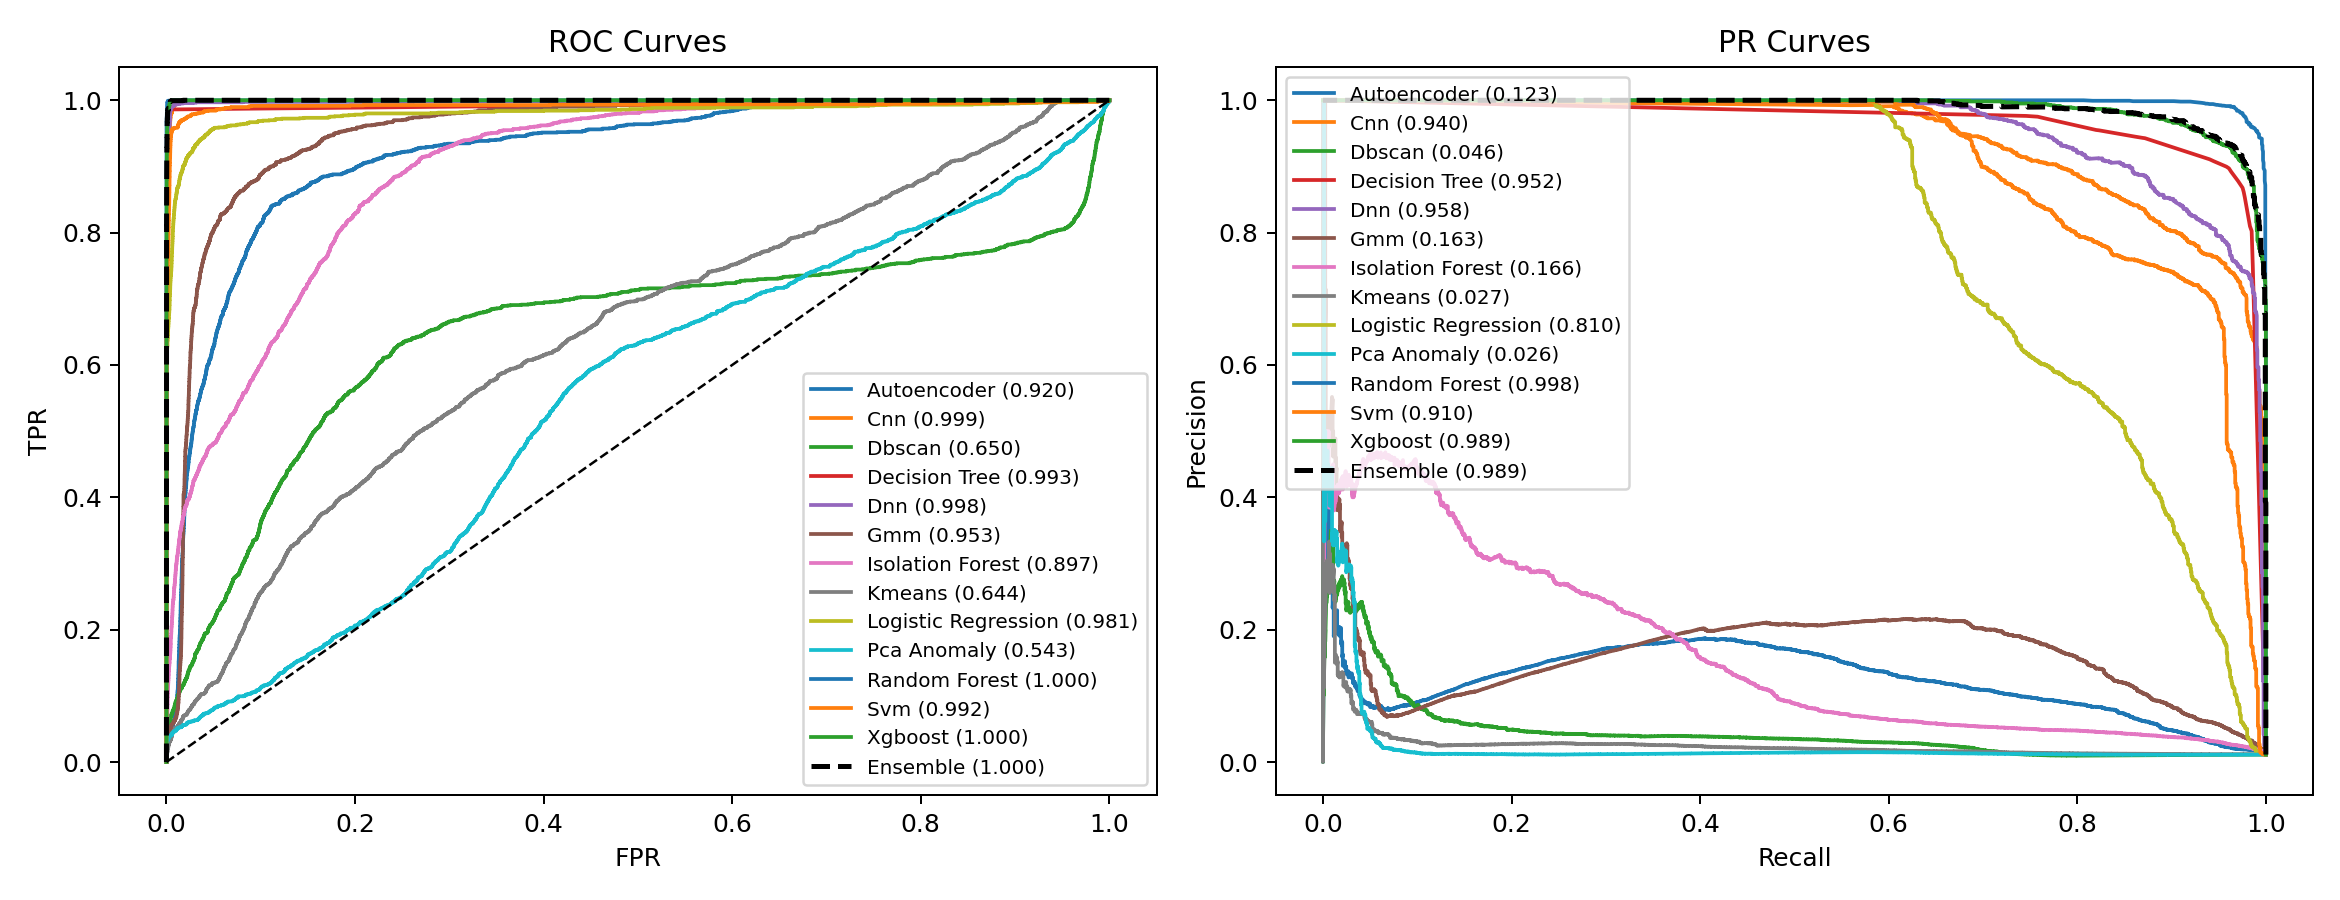
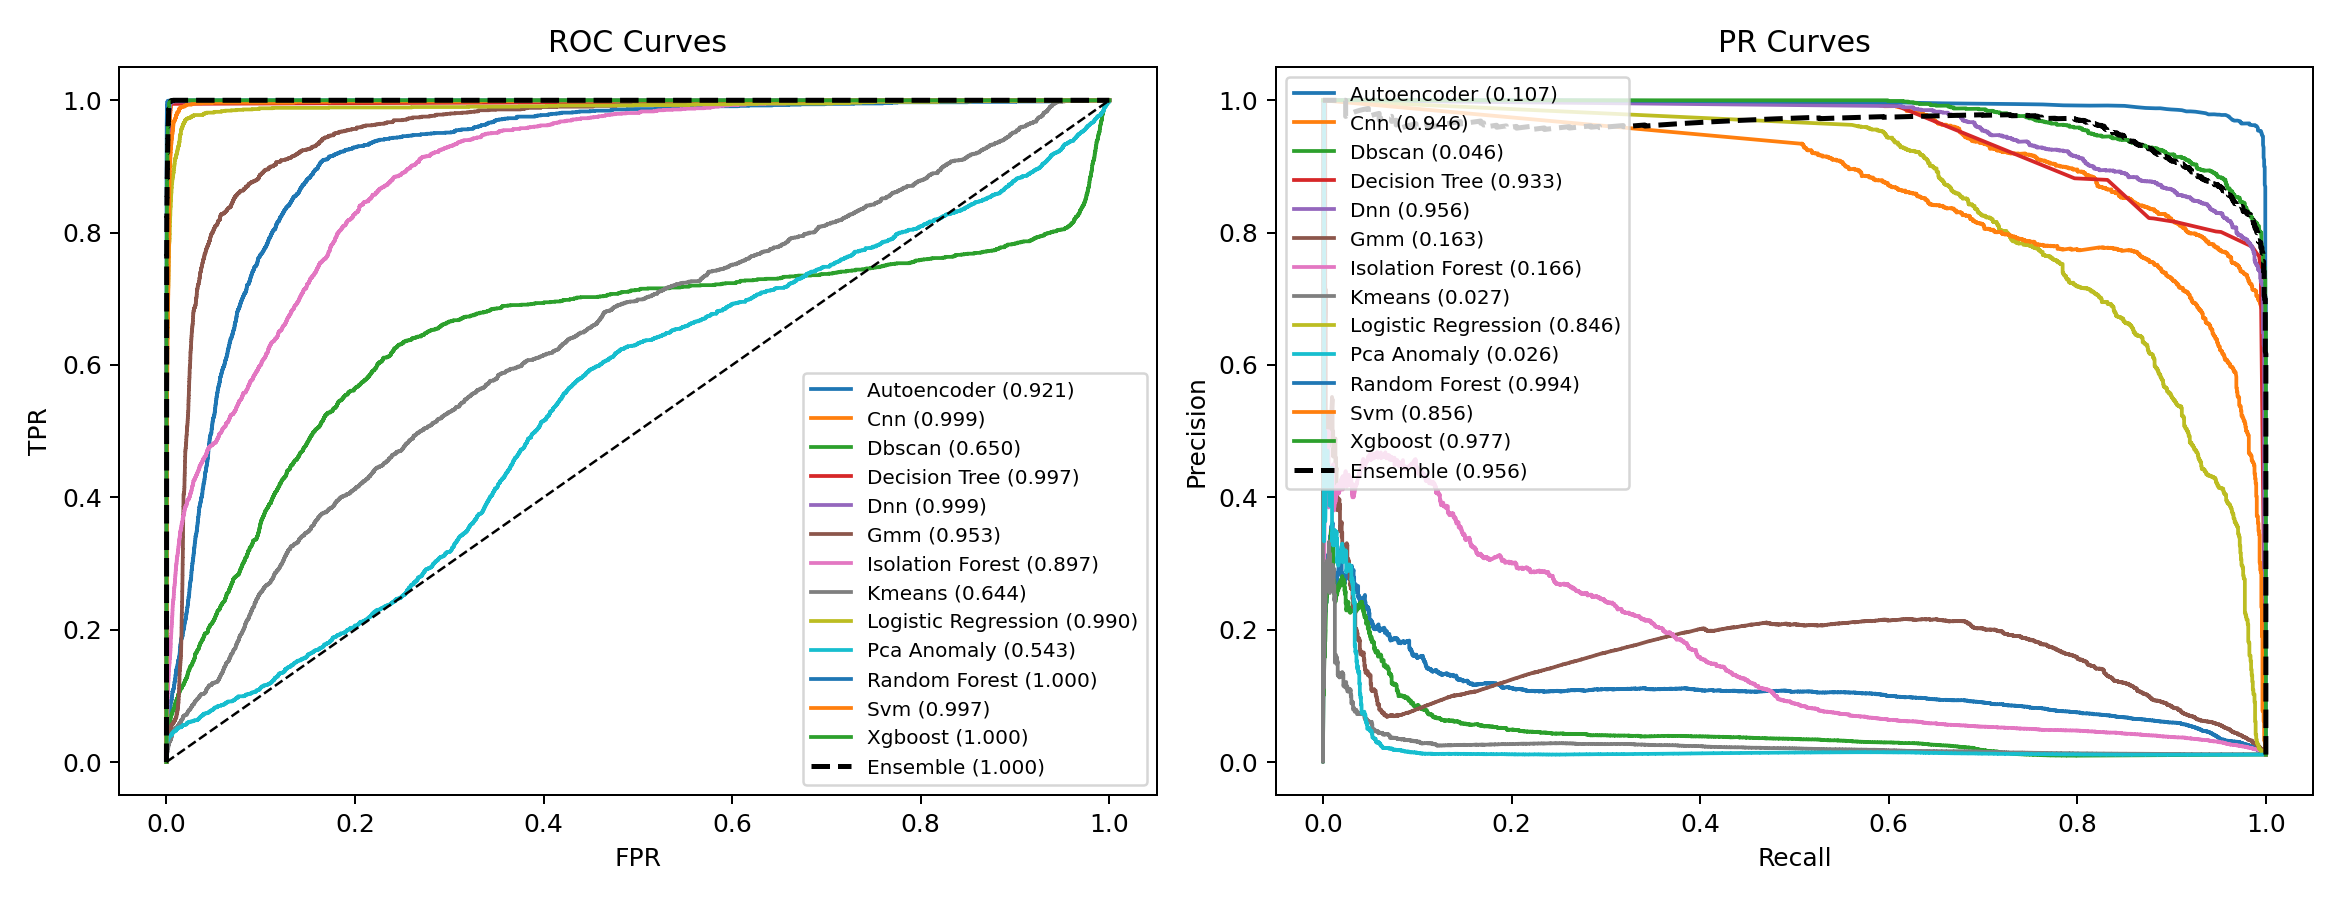
plots

diff --git a/Pipeline/model_comparison_report.html b/Pipeline/model_comparison_report.html
@@ -8,7 +8,7 @@ h1,h2{color:#2c3e50}
 img{max-width:100%}</style></head><body>
 <h1>Fraud Detection Ensemble Report</h1>
 <p><b>Input:</b> enhanced_financial_data.csv (147782 records)</p>
-<p><b>Fraud flagged:</b> 1084 (0.73%)</p>
+<p><b>Fraud flagged:</b> 1886 (1.28%)</p>
 <h2>Performance Metrics</h2>
 <table><tr><th>Model</th><th>Acc</th><th>Prec</th><th>Rec</th><th>F1</th><th>AUC</th><th>AP</th></tr>
 
@@ -17,16 +17,16 @@ img{max-width:100%}</style></head><body>
 <td>0.0000</td>
 <td>0.0000</td>
 <td>0.0000</td>
-<td>0.9200</td>
-<td>0.1230</td></tr>
+<td>0.9208</td>
+<td>0.1074</td></tr>
 
 <tr><td><b>Cnn</b></td>
-<td>0.9965</td>
-<td>0.8257</td>
-<td>0.8754</td>
-<td>0.8498</td>
-<td>0.9987</td>
-<td>0.9404</td></tr>
+<td>0.9955</td>
+<td>0.7170</td>
+<td>0.9856</td>
+<td>0.8301</td>
+<td>0.9986</td>
+<td>0.9465</td></tr>
 
 <tr><td><b>Dbscan</b></td>
 <td>0.5192</td>
@@ -37,20 +37,20 @@ img{max-width:100%}</style></head><body>
 <td>0.0459</td></tr>
 
 <tr><td><b>Decision Tree</b></td>
-<td>0.9983</td>
-<td>0.8999</td>
-<td>0.9579</td>
-<td>0.9280</td>
-<td>0.9928</td>
-<td>0.9518</td></tr>
+<td>0.9967</td>
+<td>0.7788</td>
+<td>0.9856</td>
+<td>0.8701</td>
+<td>0.9967</td>
+<td>0.9325</td></tr>
 
 <tr><td><b>Dnn</b></td>
-<td>0.9971</td>
-<td>0.8668</td>
-<td>0.8814</td>
-<td>0.8740</td>
-<td>0.9980</td>
-<td>0.9578</td></tr>
+<td>0.9968</td>
+<td>0.7866</td>
+<td>0.9807</td>
+<td>0.8730</td>
+<td>0.9991</td>
+<td>0.9556</td></tr>
 
 <tr><td><b>Gmm</b></td>
 <td>0.9561</td>
@@ -77,12 +77,12 @@ img{max-width:100%}</style></head><body>
 <td>0.0267</td></tr>
 
 <tr><td><b>Logistic Regression</b></td>
-<td>0.9954</td>
-<td>0.9765</td>
-<td>0.6008</td>
-<td>0.7439</td>
-<td>0.9808</td>
-<td>0.8105</td></tr>
+<td>0.9929</td>
+<td>0.6350</td>
+<td>0.8694</td>
+<td>0.7339</td>
+<td>0.9905</td>
+<td>0.8461</td></tr>
 
 <tr><td><b>Pca Anomaly</b></td>
 <td>0.9405</td>
@@ -93,100 +93,100 @@ img{max-width:100%}</style></head><body>
 <td>0.0263</td></tr>
 
 <tr><td><b>Random Forest</b></td>
-<td>0.9995</td>
-<td>0.9754</td>
-<td>0.9771</td>
-<td>0.9762</td>
-<td>1.0000</td>
-<td>0.9981</td></tr>
+<td>0.9993</td>
+<td>0.9484</td>
+<td>0.9958</td>
+<td>0.9715</td>
+<td>0.9999</td>
+<td>0.9942</td></tr>
 
 <tr><td><b>Svm</b></td>
-<td>0.9958</td>
-<td>0.9888</td>
-<td>0.6370</td>
-<td>0.7748</td>
-<td>0.9919</td>
-<td>0.9095</td></tr>
+<td>0.9908</td>
+<td>0.5524</td>
+<td>0.9705</td>
+<td>0.7041</td>
+<td>0.9973</td>
+<td>0.8559</td></tr>
 
 <tr><td><b>Xgboost</b></td>
-<td>0.9987</td>
-<td>0.9296</td>
-<td>0.9615</td>
-<td>0.9453</td>
-<td>0.9999</td>
-<td>0.9891</td></tr>
+<td>0.9971</td>
+<td>0.7970</td>
+<td>0.9952</td>
+<td>0.8851</td>
+<td>0.9997</td>
+<td>0.9773</td></tr>
 
 <tr style="background:#e8f5e9"><td><b>Ensemble</b></td>
-<td>0.9961</td>
-<td>0.9991</td>
-<td>0.6520</td>
-<td>0.7891</td>
-<td>0.9999</td>
-<td>0.9888</td></tr>
+<td>0.9977</td>
+<td>0.8499</td>
+<td>0.9651</td>
+<td>0.9039</td>
+<td>0.9996</td>
+<td>0.9562</td></tr>
 </table>
 <h2>Comparison Plots</h2>
 <img src="comparison_plots.png" />
 <h2>First 20 Predictions</h2>
 <table><tr><th>#</th><th>Fraud?</th><th>Confidence</th></tr>
 
-<tr><td>0</td><td>NO</td>
-<td>0.3241</td></tr>
+<tr><td>0</td><td>YES</td>
+<td>0.5963</td></tr>
 
-<tr><td>1</td><td>NO</td>
-<td>0.2584</td></tr>
+<tr><td>1</td><td>YES</td>
+<td>0.5647</td></tr>
 
 <tr><td>2</td><td>NO</td>
-<td>0.0841</td></tr>
+<td>0.1794</td></tr>
 
-<tr><td>3</td><td>NO</td>
-<td>0.2434</td></tr>
+<tr><td>3</td><td>YES</td>
+<td>0.5671</td></tr>
 
 <tr><td>4</td><td>NO</td>
-<td>0.1091</td></tr>
+<td>0.1504</td></tr>
 
-<tr><td>5</td><td>NO</td>
-<td>0.3045</td></tr>
+<tr><td>5</td><td>YES</td>
+<td>0.5862</td></tr>
 
 <tr><td>6</td><td>NO</td>
-<td>0.1823</td></tr>
+<td>0.4401</td></tr>
 
-<tr><td>7</td><td>NO</td>
-<td>0.1816</td></tr>
+<tr><td>7</td><td>YES</td>
+<td>0.5071</td></tr>
 
-<tr><td>8</td><td>NO</td>
-<td>0.2311</td></tr>
+<tr><td>8</td><td>YES</td>
+<td>0.5005</td></tr>
 
 <tr><td>9</td><td>NO</td>
-<td>0.0861</td></tr>
+<td>0.2952</td></tr>
 
 <tr><td>10</td><td>NO</td>
-<td>0.0862</td></tr>
+<td>0.1079</td></tr>
 
 <tr><td>11</td><td>NO</td>
-<td>0.0662</td></tr>
+<td>0.2246</td></tr>
 
-<tr><td>12</td><td>NO</td>
-<td>0.3625</td></tr>
+<tr><td>12</td><td>YES</td>
+<td>0.6075</td></tr>
 
 <tr><td>13</td><td>NO</td>
-<td>0.0740</td></tr>
+<td>0.2362</td></tr>
 
-<tr><td>14</td><td>NO</td>
-<td>0.2667</td></tr>
+<tr><td>14</td><td>YES</td>
+<td>0.5538</td></tr>
 
-<tr><td>15</td><td>NO</td>
-<td>0.2564</td></tr>
+<tr><td>15</td><td>YES</td>
+<td>0.5092</td></tr>
 
 <tr><td>16</td><td>NO</td>
-<td>0.1367</td></tr>
+<td>0.3148</td></tr>
 
 <tr><td>17</td><td>NO</td>
-<td>0.0984</td></tr>
+<td>0.2794</td></tr>
 
 <tr><td>18</td><td>NO</td>
-<td>0.1191</td></tr>
+<td>0.3083</td></tr>
 
-<tr><td>19</td><td>NO</td>
-<td>0.2970</td></tr>
+<tr><td>19</td><td>YES</td>
+<td>0.5373</td></tr>
 
 </table></body></html>

diff --git a/Pipeline/FINAL_COMPARISON_REPORT.html b/Pipeline/FINAL_COMPARISON_REPORT.html
@@ -19,22 +19,22 @@ img{max-width:100%;margin:20px 0}
 <tr >
 <td><b>clustering</b></td>
 <td>0.9888</td><td>0.0</td><td>0.0</td>
-<td>0.0</td><td>0.9731</td><td>0.2514</td>
-<td>1</td><td>0.00%</td>
+<td>0.0</td><td>0.9731</td><td>0.2513</td>
+<td>0</td><td>0.00%</td>
 </tr>
 
 <tr >
 <td><b>classification</b></td>
-<td>0.9992</td><td>0.9905</td><td>0.9368</td>
-<td>0.9629</td><td>1.0</td><td>0.9964</td>
-<td>1571</td><td>1.06%</td>
+<td>0.9972</td><td>0.8013</td><td>0.9976</td>
+<td>0.8887</td><td>0.9999</td><td>0.9917</td>
+<td>2068</td><td>1.40%</td>
 </tr>
 
 <tr >
 <td><b>full</b></td>
-<td>0.9961</td><td>0.9991</td><td>0.652</td>
-<td>0.7891</td><td>0.9999</td><td>0.9888</td>
-<td>1084</td><td>0.73%</td>
+<td>0.9977</td><td>0.8499</td><td>0.9651</td>
+<td>0.9039</td><td>0.9996</td><td>0.9562</td>
+<td>1886</td><td>1.28%</td>
 </tr>
 
 </table>
